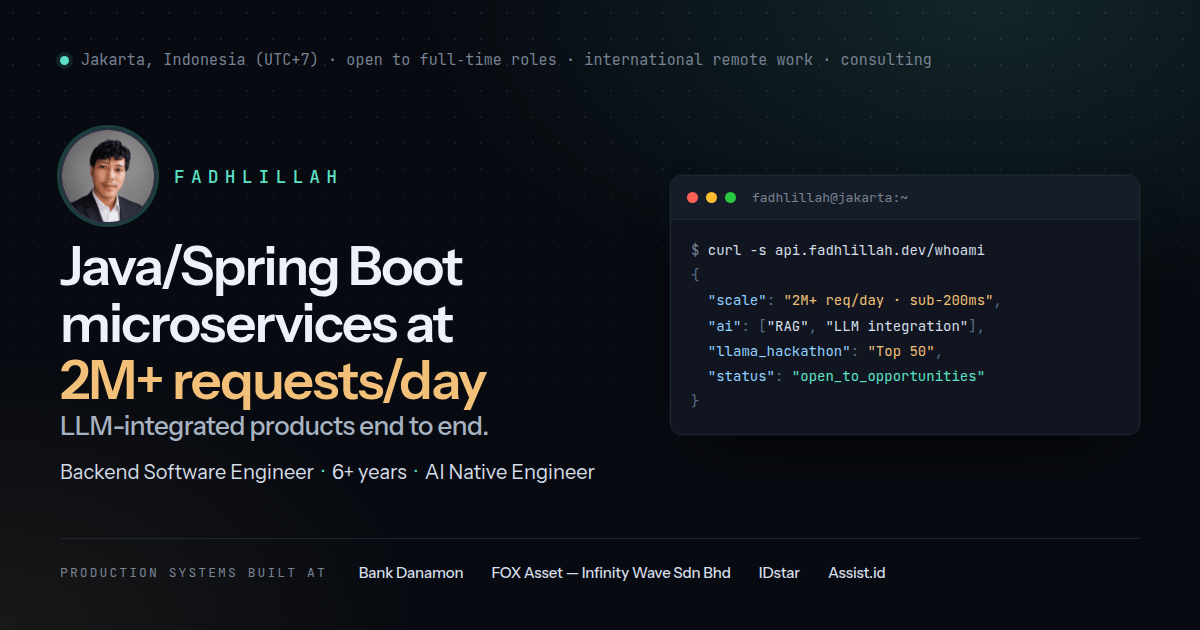
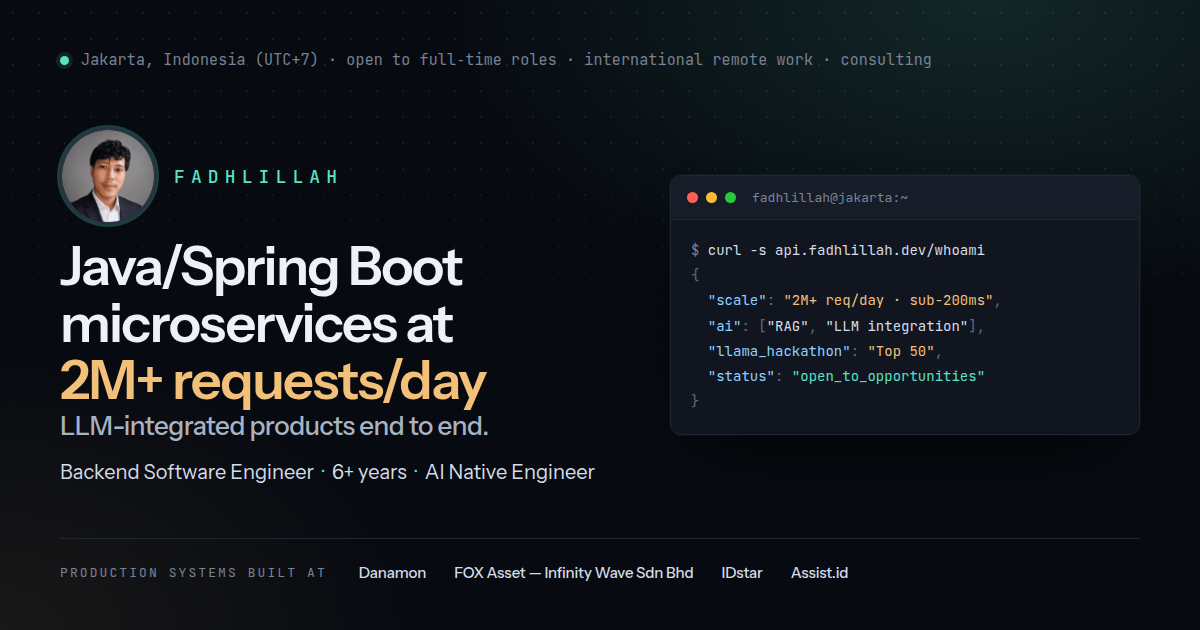
Sync OG cover company label with hero and update sitemap lastmod

Changed region(s): [[0.3083, 0.8746, 0.74, 0.9349]]

diff --git a/scripts/og/cover.html b/scripts/og/cover.html
@@ -84,7 +84,7 @@
 
   <div class="proof">
     <span class="proof-label">Production systems built at</span>
-    <b>Bank Danamon</b><b>FOX Asset — Infinity Wave Sdn Bhd</b><b>IDstar</b><b>Assist.id</b>
+    <b>Danamon</b><b>FOX Asset — Infinity Wave Sdn Bhd</b><b>IDstar</b><b>Assist.id</b>
   </div>
 </body>
 </html>
